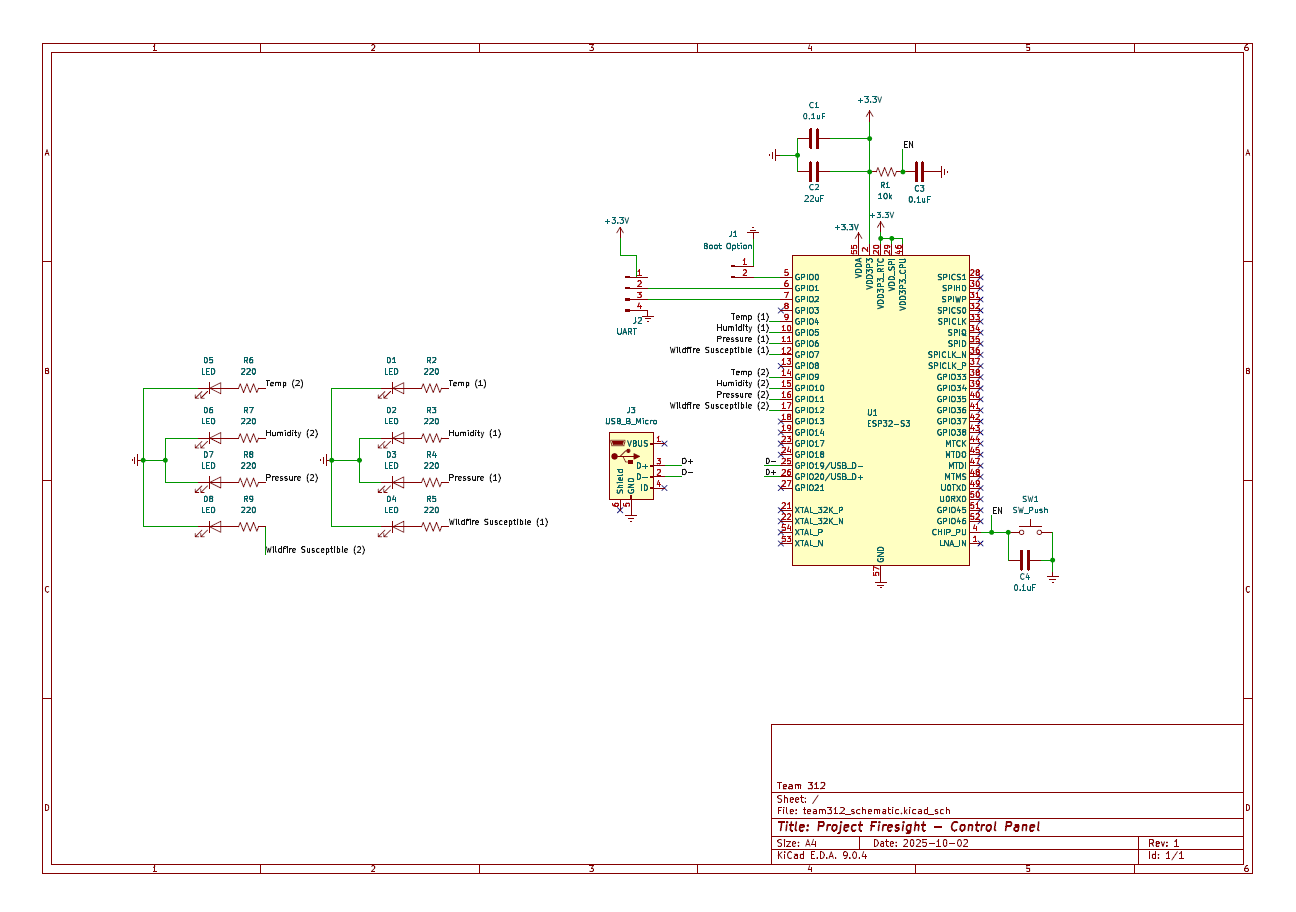
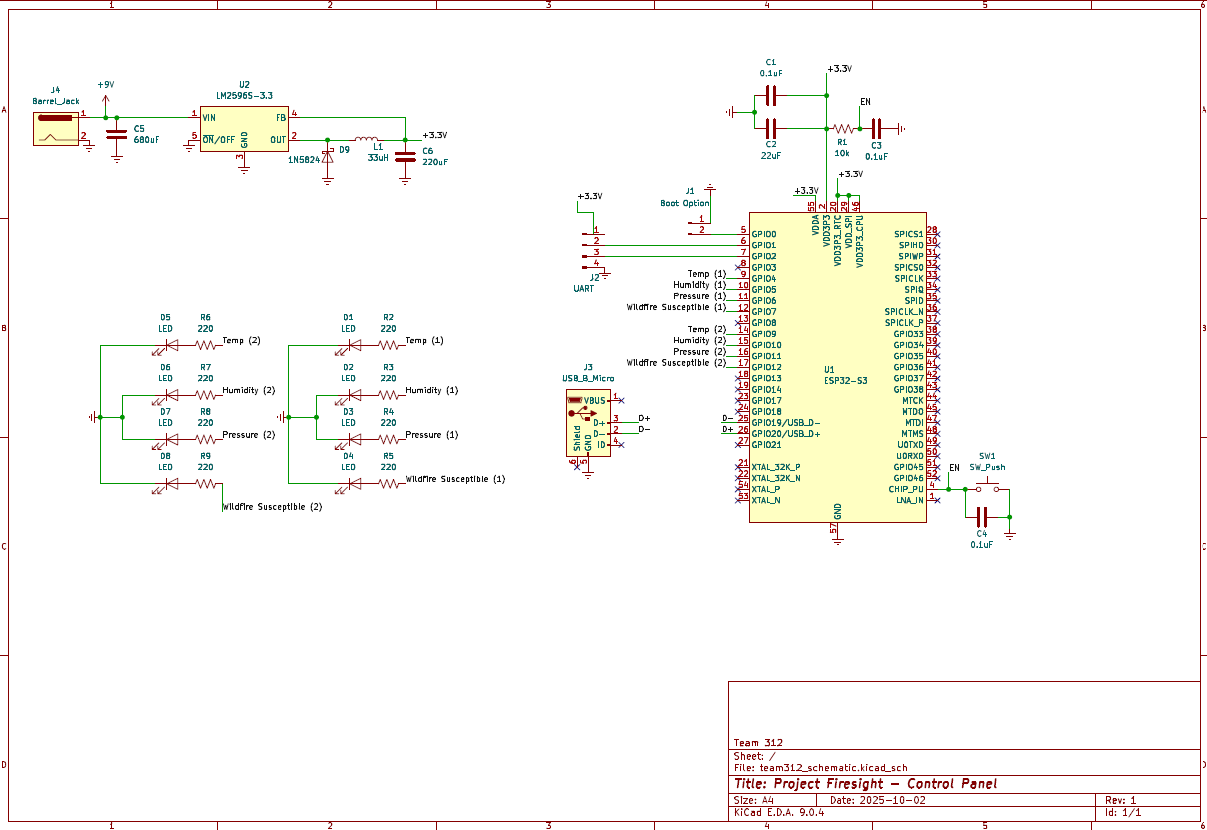
update missed the voltage reg & barrel jack in first schematic

diff --git a/docs/BOM.md b/docs/BOM.md
@@ -6,7 +6,7 @@ The bill of materials for this project is detailed in the table below. Most of t
 
 | Part Name/Description                                                                        | Unit Quantity | Unit Cost | Manufacturer                    | Manufacturer Part #         | Vendor             |  Total Cost  | Order Total |
 |----------------------------------------------------------------------------------------------|---------------|-----------|---------------------------------|-----------------------------|--------------------|--------------|-------------|
-| IC REG BUCK 5V 3A TO263                                                                      | 4             | $6.97     | Texas Instruments               | LM2596S-(5.0/3.3V)/NOPB     | Digikey            |  $27.88      |  $299.55    |
+| IC REG BUCK 3V 3A TO263                                                                      | 4             | $3.32     | Texas Instruments               | LM2596S-(3.3V)/NOPB         | Digikey            |  $13.28      |  $284.95    |
 | FIXED IND 33UH 4.1A 92 MOHM SMD                                                              | 5             | $0.80     | Sumida America Components Inc.  | 104CDMCCDS-330MC            | Digikey            |  $4.00       |             |
 | Diode 30 V 5A Surface Mount SMC                                                              | 5             | $0.61     | Diodes Incorporated             | B530C-13-F                  | Digikey            |  $3.05       |             |
 | 680 µF Molded Tantalum Polymer Capacitor 6.3 V 2917 (7343 Metric) 18mOhm @ 100kHz            | 5             | $2.90     | Panasonic Electronic Components | 6TPE680MI                   | Digikey            |  $14.50      |             |
